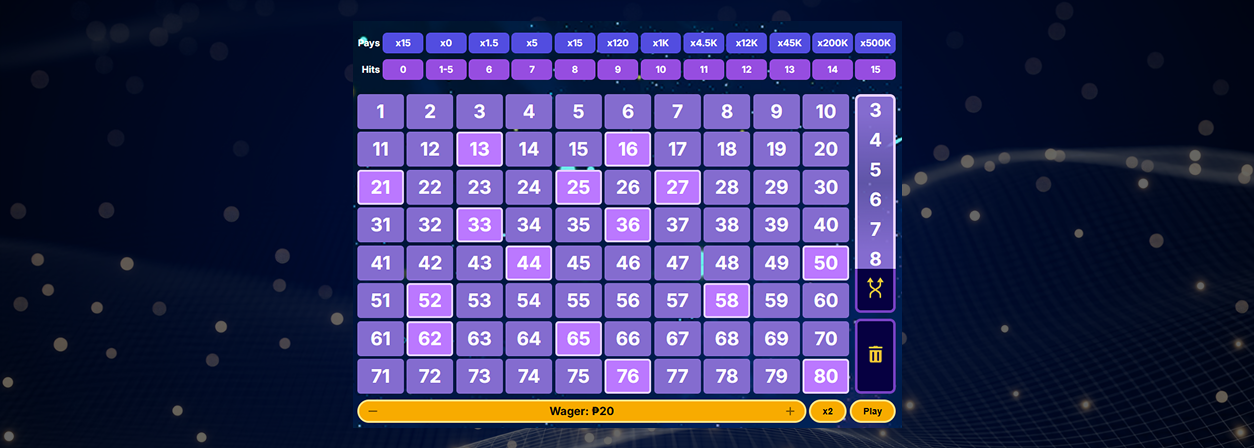
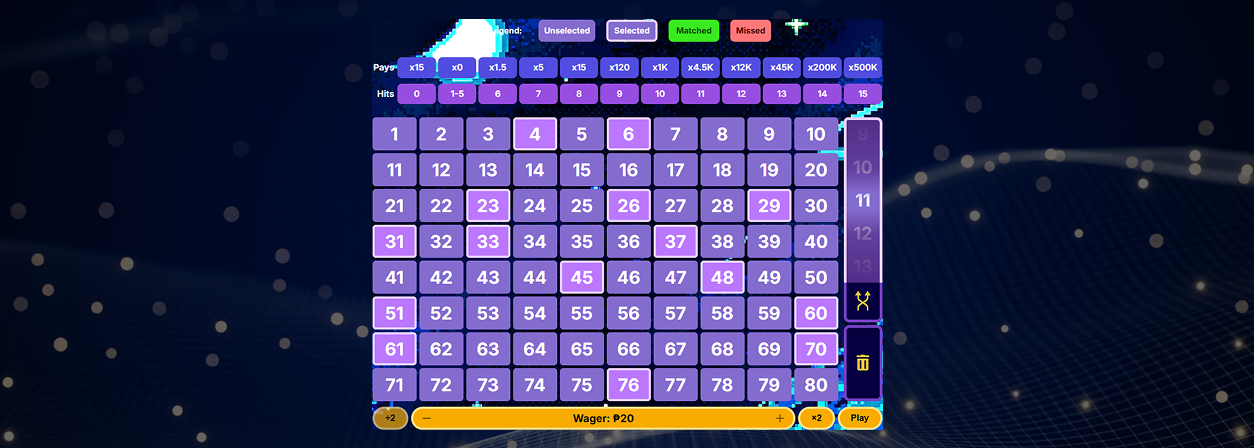
Fix: Replaced tutorial images with the updated UI

Changed region(s): [[0.2799, 0.0312, 0.7464, 0.9688]]

diff --git a/src/views/TutorialView.vue b/src/views/TutorialView.vue
@@ -29,8 +29,7 @@ import HomeButton from '@/components/HomeButton.vue'
 import tutorial_1 from '../assets/tutorial_1.png'
 import tutorial_2 from '../assets/tutorial_2.png'
 import tutorial_3_4 from '../assets/tutorial_3_4.png'
-import tutorial_5 from '../assets/tutorial_5.png'
-import tutorial_6 from '../assets/tutorial_6.png'
+import tutorial_5_6 from '../assets/tutorial_5_6.png'
 import tutorial_7 from '../assets/tutorial_7.png'
 
 import { useRouter } from 'vue-router'
@@ -63,12 +62,12 @@ const cards = [
   },
   {
     title: 'The game begins',
-    image: tutorial_5,
+    image: tutorial_5_6,
     body: "Once you have entered your wager, it's time to start the game. Simply press the 'Play' button to confirm your choices and begin. The system will then process your selections, and you'll see the results of the draw shortly after.",
   },
   {
     title: 'Matching Numbers',
-    image: tutorial_6,
+    image: tutorial_5_6,
     body: 'After the draw, review the results to see if any of your chosen Keno numbers match the numbers drawn. If you have matching numbers, congratulations! The system will calculate your winnings based on your wager, the number of hits, and the payout table.',
   },
   {
